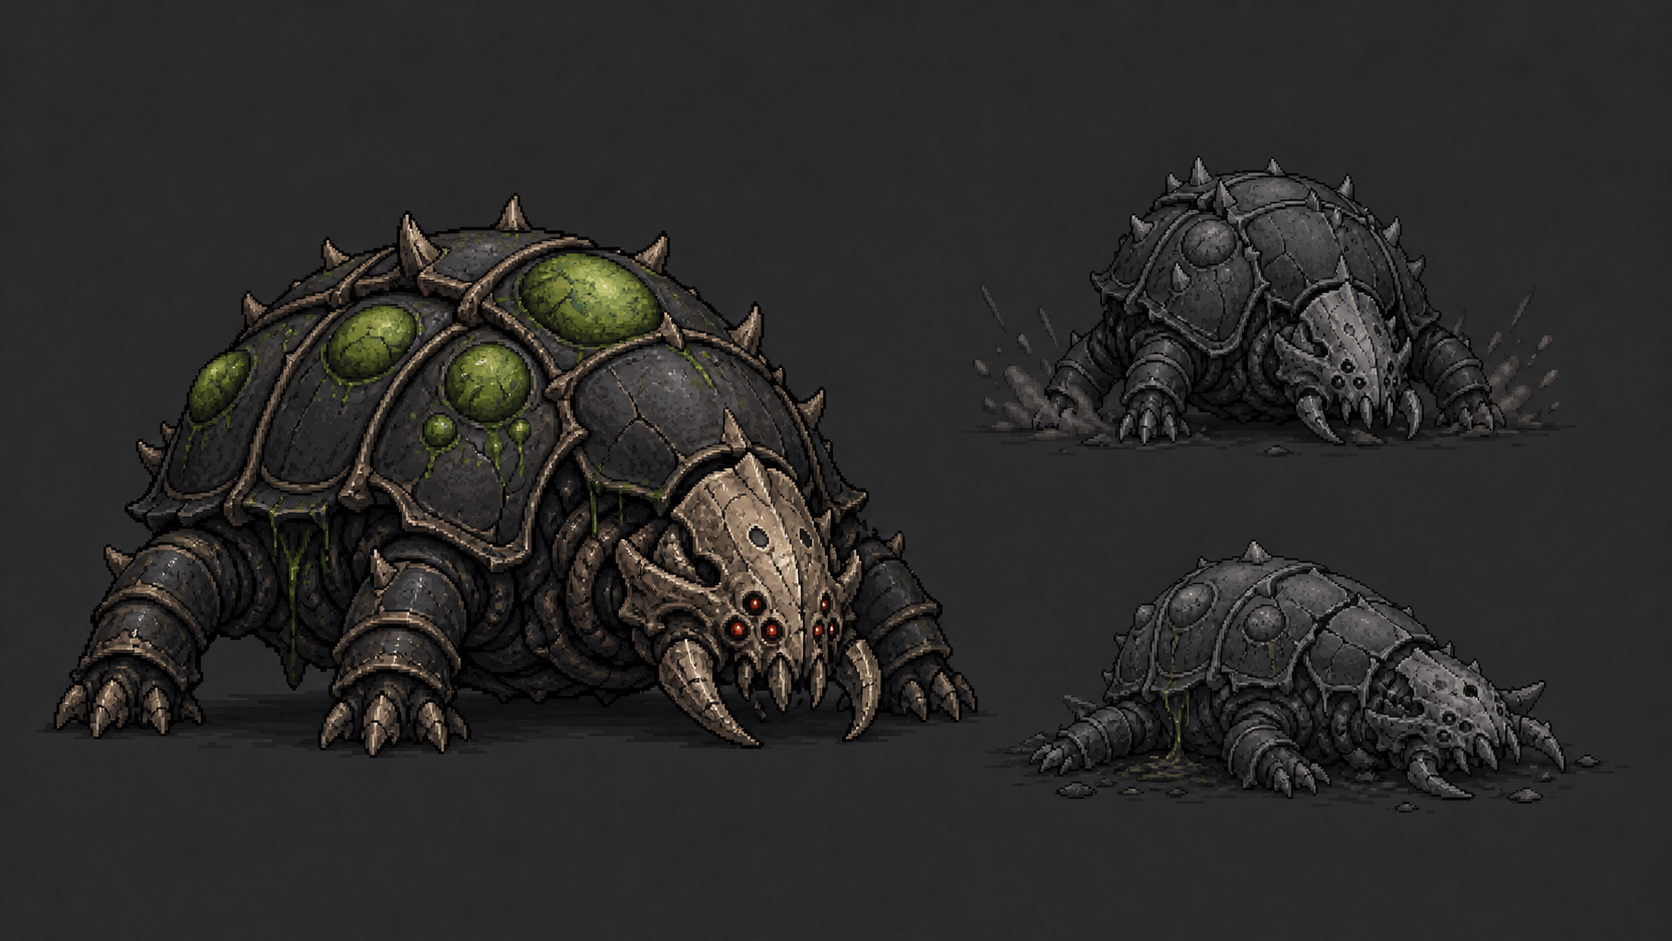
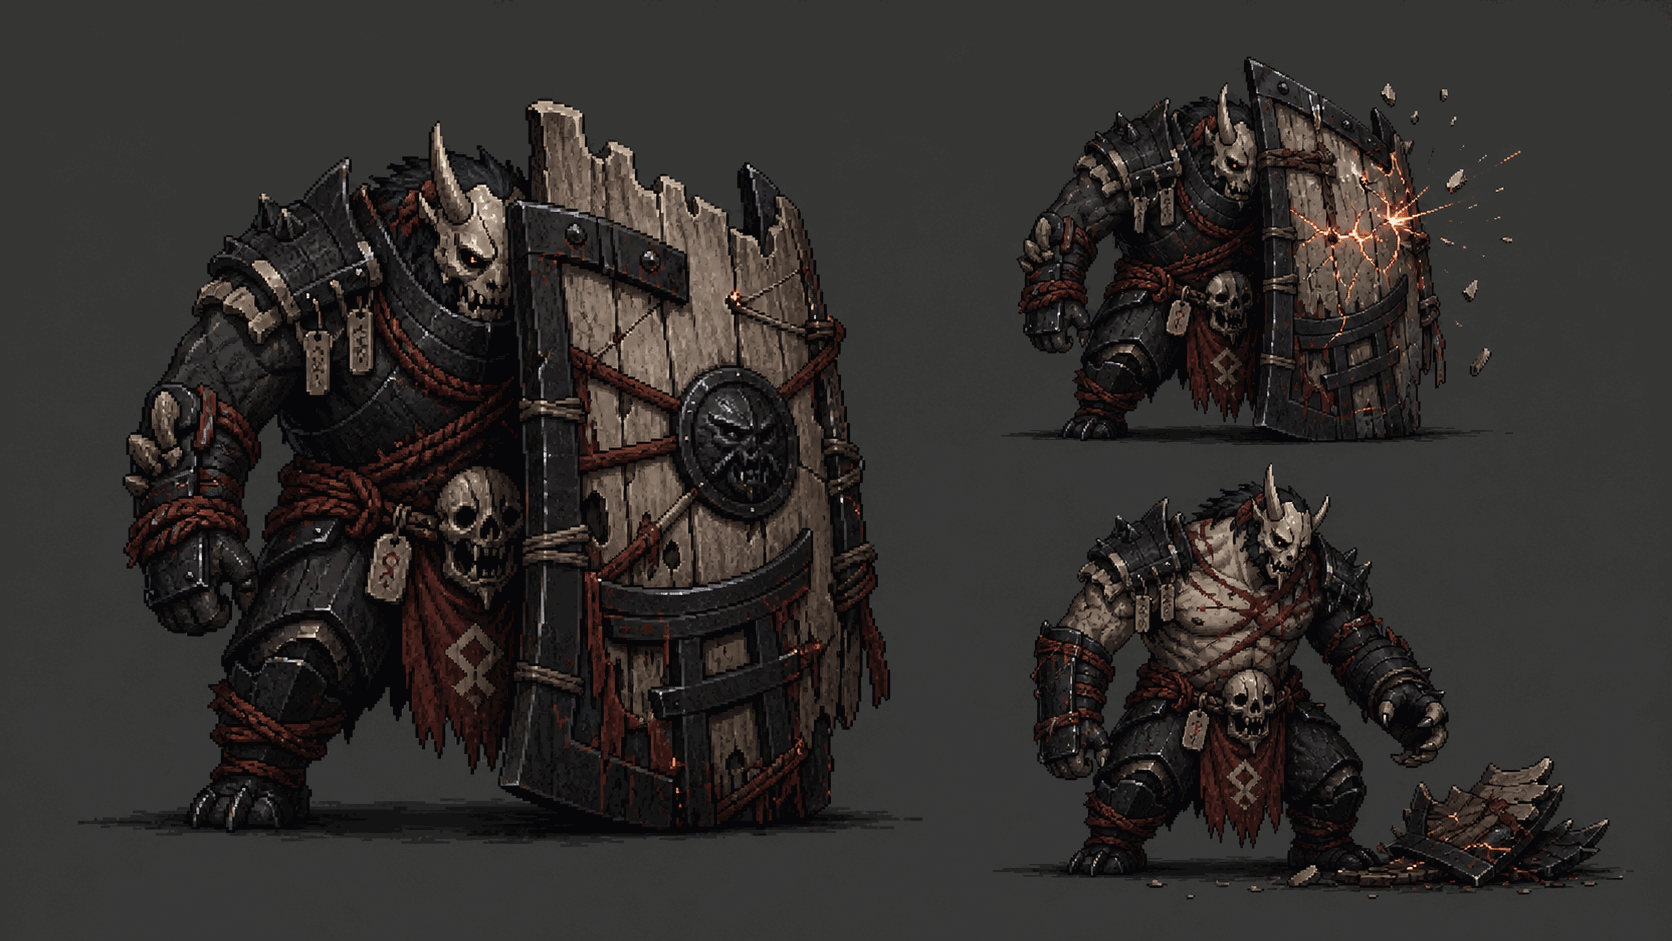
refactor: brute

Changed region(s): [[0.0311, 0.0925, 0.5909, 0.8937], [0.5909, 0.0616, 0.9641, 0.9554]]

diff --git a/docs/art/enemies/brute.md b/docs/art/enemies/brute.md
@@ -1,67 +1,81 @@
-# Brute - 甲壳重鬼
+# Brute - 盾甲重鬼
 
 ## Implementation Status
 
-- 素材状态：已重做并接入，当前 `assets/sprites/enemies/brute/brute_advance.png` 是 `advance`，另有 `brute_brace.png`、`brute_stomp.png`、`brute_recover.png`；攻击读招已烘进动作图集。
-- 玩法状态：已接入专属 `brute` archetype，当前实现为 `advance -> brace -> stomp -> recover` 的慢速重型循环。
+- 设定状态：重构目标已切换为站立厚重近战敌人，核心机制是前置盾牌防御物；盾牌被打掉后防御下降并露出反打窗口。
+- 素材状态：`assets/art/brute-concept.png` 是新原画基准；当前运行时图集仍是旧低伏甲壳版，后续需要重绘为站立持盾动作。
+- 玩法状态：当前代码仍是 `advance -> brace -> stomp -> recover` 的旧慢速重型循环；目标实现见下方 Gameplay Loop。
 - 代码入口：`src/entities/enemies/brute.ts`；资源入口：`src/constants/assets.ts` 的 `BRUTE_SHEET_INDEX` / `BRUTE_SHEETS`。
 
 ## Role
 
-高血重型敌人。目标是制造空间阻塞和目标优先级，而不是靠速度追杀玩家。
+站立厚重近战敌人。目标是用盾牌制造正面压迫和目标优先级，而不是靠潜行、绕背或高速追杀玩家。
 
 ## Gameplay Loop
 
-| 状态 | 当前规则 | 设计目的 |
+| 状态 | 目标规则 | 设计目的 |
 | --- | --- | --- |
-| `advance` | 慢速面向玩家推进 | 制造阻挡压力，但不高速贴脸 |
-| `brace` | 进入距离后停顿 `26-34` 帧，素材内逐帧压低并让头部/前甲开始发绿光 | 给玩家读招和拉开时间 |
-| `stomp` | 短距离前顶 `14-18` 帧，素材内烘入头部高亮和前方气浪，并在冲击窗口只触发一次矩形打击 | 明确高伤威胁，避免多次判定 |
-| `recover` | 停住 `24-34` 帧，使用同尺度低姿态恢复帧，头部/前甲从亮绿色逐帧恢复原色 | 露出反打窗口 |
+| `advance` | 直立小步推进，盾牌始终挡在身体前侧 | 读出“正面硬、移动慢”的压力 |
+| `guard` | 进入距离后举盾停顿 `24-34` 帧，盾面裂纹或暗红符钉逐帧变亮 | 给玩家读招，同时提示盾牌是可破目标 |
+| `shieldBash` | 盾牌未破时短距离盾击或肩撞，只触发一次近战命中盒 | 让完整盾牌状态有正面威胁 |
+| `shieldBreak` | 盾牌耐久归零时进入 `28-40` 帧破盾硬直，碎片飞出并暴露胸腹 | 奖励持续输出，明确防御下降 |
+| `cleave` | 破盾后改用慢速拳击、骨槌或前臂横扫，前摇更明显 | 保留近战威胁，但不再拥有正面防御优势 |
+| `recover` | 攻击后停顿 `24-34` 帧；破盾后恢复帧更低、防线更空 | 露出稳定反打窗口 |
 
-## Current Tuning
+## Target Tuning
 
-| 参数 | 当前值 | 说明 |
+| 参数 | 目标值 | 说明 |
 | --- | ---: | --- |
-| 触发距离 | `150px` | 进入距离后尝试前摇 |
-| 推进速度 | `0.42 + elapsed*0.006 + rand(0.22)` | 慢速重型推进 |
-| 生命 | 基础敌人生命的 `4.25x` | 高血目标，明显区别普通敌人 |
-| 绘制缩放 | `1.12x` | 保持低矮但更有体量 |
+| 触发距离 | `145-165px` | 进入距离后举盾或盾击 |
+| 推进速度 | 低于 `duelist`，接近旧 brute | 保持重型压迫，不追求贴脸速度 |
+| 本体生命 | 基础敌人生命的 `3.0-3.5x` | 本体仍厚，但不把所有耐久堆在生命条里 |
+| 盾牌耐久 | 约本体生命的 `35-45%` | 独立防御物，破坏后不再恢复 |
+| 完整盾牌减伤 | 正面非大招伤害降低 `55-70%` | 迫使玩家先破盾、绕位或用高价值技能 |
+| 破盾后防御 | 移除盾牌减伤，可追加 `1.15x` 受伤倍率 | 让“打掉盾牌”在手感上立即变快 |
 | 同屏上限 | `2` | 避免高血单位堆场 |
-| 同时前摇/重踏 | `1` | 避免多个重踏叠加不可读 |
-| 霸体减伤 | `50%` 非大招伤害 | `brace/stomp` 期间减伤但不免疫，大招全额 |
+| 同时攻击 | `1` | 避免多个盾击叠加不可读 |
 
 ## Target Size
 
-宽 `115-145px`，高 `55-80px`。重型低矮，不要像普通爬行怪。
+宽 `95-125px`，高 `105-145px`。必须是站立厚重轮廓，不能再做成低伏四足或钻地单位。
 
 ## Visual Identity
 
-- 远看是一团低矮厚重的甲壳。
-- 低垂骨质头甲，眼点小而凶，头部埋在前壳下。
-- 宽厚甲壳覆盖背部，背壳有绿色囊泡或发光腐蚀点。
-- 短粗节肢支撑重量，移动时有压地感。
-- 前颚或骨刺可作为接触伤害来源。
+- 远看是一个宽肩、短颈、站立的重甲鬼，盾牌是最大前景形状。
+- 盾牌绑在前臂或嵌进手臂，像骨板、铁门或破损鸟居残片，边缘有缺口和裂纹。
+- 身体厚重但不能像 Boss；头部藏在盾后，面具、角或牙只露出一部分。
+- 腿短而粗，脚步沉，移动时上半身几乎不晃，靠盾牌推进。
+- 破盾后轮廓要明显变窄，露出胸腹、肩带和断裂盾托，让玩家一眼看出防御下降。
 
 ## Color And Materials
 
-- 主色：黑灰甲壳、骨白头甲、暗绿囊泡。
-- 强调色：绿色囊泡低亮度脉动，提示重型危险。
-- 材质：硬甲、骨质、腐蚀液体。
+- 主色：黑铁、深灰骨甲、暗红绑带。
+- 强调色：盾面裂缝和符钉可用低亮度暗红或熄火橙；不要再使用大面积绿色囊泡。
+- 材质：沉重金属、骨板、麻绳/皮带、破碎木铁混合盾。
 
-运行时只负责切换 `brace` / `stomp` / `recover` 图集和结算既有命中盒，不再额外绘制头光、地面预警、地裂、尘土或气浪覆盖层。
+盾牌要作为视觉和玩法共同锚点：完整时遮挡身体，受击时出现裂纹，破盾时飞出碎片，破盾后不再显示完整盾面。
 
 ## Animation Notes
 
 | 状态 | 原画要点 |
 | --- | --- |
-| 移动 | 身体上下起伏很小，脚步慢但有重量 |
-| 霸体前摇 | 背壳收紧，囊泡变亮，身体压低 |
-| 重踏/撞击 | 前端猛压地面或短距离顶撞 |
-| 受击 | 甲壳震动，囊泡闪烁，不要大幅后仰 |
-| 死亡 | 背壳裂开，绿色光熄灭后塌陷 |
+| 移动 | 盾牌在前，脚步短而重；不要贴地爬行 |
+| 举盾前摇 | 盾面抬高并盖住头胸，裂纹或符钉变亮 |
+| 盾击 | 盾牌向前压出半个身位，身体重心跟上 |
+| 盾牌受击 | 盾面局部裂开、碎屑掉落，本体不要大幅后仰 |
+| 破盾 | 盾牌断成几块飞出，brute 短暂暴露胸腹并停顿 |
+| 破盾后攻击 | 用拳、骨槌或残盾臂横扫，前摇比盾击更夸张 |
+| 死亡 | 先跪倒，再让残盾和重甲坠地，暗红裂光熄灭 |
+
+## Sprite Rework Notes
+
+- 如果先做最小代码改造，可复用旧状态名：`advance` = 持盾推进，`brace` = 举盾防御，`stomp` = 盾击或破盾后横扫，`recover` = 攻击硬直。
+- 如果做完整重构，建议新增盾牌状态字段和独立盾牌耐久，动画至少包含 `advance`、`guard`、`shield_bash`、`shield_break`、`cleave`、`recover`。
+- 新图集单帧高度应接近 `duelist` / `binder` 这类站立敌人，而不是旧 brute 的 `314x145` 低伏画布。
 
 ## Avoid
 
-- 不要让它移动姿态太灵活，否则会和 `crawler` 混淆。
-- 不要让绿色特效太亮，避免抢过奖励和玩家技能可读性。
+- 不要低伏、钻地、露土包或用铲爪，否则会和 `burrower` 混淆。
+- 不要四足甲虫化；旧版低矮甲壳只作为废弃方向参考。
+- 不要给它高速冲刺，否则会和 `runner` 混淆。
+- 不要让暗红盾光太亮，避免抢过玩家技能和奖励可读性。

diff --git a/docs/numeric-system/enemy-archetypes.md b/docs/numeric-system/enemy-archetypes.md
@@ -52,7 +52,7 @@ k = bossKills = act - 1
 | `runner` | `runner_approach.png` | 快攻压力 | 短前摇后冲刺，迫使跳跃或远程处理 | `1` | 前中期核心，后期轮换 |
 | `duelist` | `duelist.png` | 近战精英 | 接近后短距离斩击 | `2` | 中期近战压力 |
 | `leaper` | `leaper_stalk.png` | 跳跃突袭 | 蓄力后抛物线跳向玩家落点 | `2` | 平台和落点压力 |
-| `brute` | `brute_advance.png` | 高血目标 | 慢速高血，短霸体窗压迫空间 | `3` | 中期阻挡压力 |
+| `brute` | `brute_advance.png` | 持盾重型 | 慢速站立推进，盾牌被击破后防御下降 | `3` | 中期正面阻挡压力 |
 | `caster` | `caster_move.png` | 远程施压 | 保持距离，周期性发射投射物或召唤标记 | `3` | 中后期远程压力 |
 | `glider` | `glider_hover.png` | 低空飞行 | 低空悬停，前摇后俯冲掠过 | `4` | 空中和平台边缘压力 |
 | `burrower` | `burrower_move.png` | 潜行包抄 | 短暂潜入，地面标记后从玩家附近钻出 | `5` | 后期反风筝压力 |
@@ -69,7 +69,7 @@ k = bossKills = act - 1
 | `runner_approach.png` | 角鬼奔跑/挥臂 | 已接入前摇冲刺状态机 | 作为 `runner`，按幕数控制快攻压力和同时冲刺数量 |
 | `caster_move.png` | 提灯面具鬼 | 已接入远程鬼火状态机 | 作为 `caster`，按幕数控制生成权重和投射物密度 |
 | `duelist.png` | 双刃鬼 | 已接入近战斩击状态机 | 作为 `duelist`，按幕数控制近身压力和同时威胁数量 |
-| `brute_advance.png` | 甲壳虫鬼 | 已接入重型 brace/stomp 状态机 | 作为 `brute`，高血慢速，限制同时存在数量 |
+| `brute_advance.png` | 旧低伏甲壳鬼 | 已接入旧重型 brace/stomp 状态机；新设定改为站立持盾敌人 | 后续重做为 `brute`，用独立盾牌耐久和破盾防御下降制造正面阻挡 |
 | `glider_hover.png` | 膜翼巡鬼 | 已接入低空悬停/俯冲状态机，当前按 `elapsed >= 70s` 进入随机候选 | 作为 `glider`，目标设计中改为第 4 幕解锁并纳入预算 |
 | `binder_move.png` | 符咒长袍鬼 | 已接入控场咒圈状态机 | 作为 `binder`，目标设计中改为后期幕数或轮换 profile 解锁 |
 | `burrower_move.png` | 铲爪土潜鬼 | 已接入潜入、地面轨迹、钻出和恢复状态机，当前按 `elapsed >= 90s` 进入随机候选 | 作为 `burrower`，目标设计中改为第 5 幕解锁并纳入预算 |
@@ -360,19 +360,19 @@ chaserDashSpeed = 2.20 + actIndex * 0.12 + random(0, 0.25)
 
 ### `brute`
 
-高血重型单位，用于制造空间阻塞，而不是靠速度追杀。
+站立持盾重型单位，用于制造正面空间阻塞和破盾目标优先级，而不是靠速度追杀。
 
 | 项 | 目标 |
 | --- | --- |
 | 出现幕数 | 第 3 幕开始；第 6 幕后可与 `splitter` 轮换 |
-| 主要压力 | 持续占位和目标优先级 |
-| 状态机 | `advance -> brace -> stomp -> recover -> advance` |
-| 攻击窗口 | 偶尔重踏或短霸体推进，伤害高但前摇长 |
-| 恢复窗口 | 重踏后 `24-34` 帧停顿，霸体结束 |
-| 玩家反制 | 贰之型、下落攻击、大招 |
-| 不可做边界 | 霸体不能免疫大招；不能高速追击玩家 |
+| 主要压力 | 正面盾牌减伤、持续占位和破盾目标优先级 |
+| 状态机 | 目标为 `advance -> guard -> shieldBash -> recover`；盾牌耐久归零后进入 `shieldBreak`，再改用 `cleave` |
+| 攻击窗口 | 盾牌完整时短前摇盾击；破盾后用更慢的拳击、骨槌或残盾横扫 |
+| 恢复窗口 | 攻击后 `24-34` 帧停顿；破盾瞬间额外 `28-40` 帧硬直 |
+| 玩家反制 | 集火破盾、贰之型群体压制、下落攻击、大招 |
+| 不可做边界 | 盾牌不能免疫大招；不能潜行、钻地、绕背或高速追击玩家 |
 | 同屏限制 | 第 3 幕初次出现最多 `1`，后续最多 `2` |
-| 可读性约束 | 靠体量和甲壳读出高血重型定位 |
+| 可读性约束 | 靠站立体量、前置盾牌、盾裂/破盾状态读出高防重型定位 |
 
 ### `caster`
 

diff --git a/docs/numeric-system/enemies.md b/docs/numeric-system/enemies.md
@@ -16,7 +16,7 @@
 - `crawler`：低伏接近、前摇、前扑、恢复。
 - `runner`：接近、前摇、冲刺、恢复。
 - `duelist`：接近、前摇、短距离斩击、恢复。
-- `brute`：慢速推进、brace、stomp、恢复，brace/stomp 期间降低非大招伤害。
+- `brute`：当前运行时为慢速推进、brace、stomp、恢复，brace/stomp 期间降低非大招伤害；目标重构为站立持盾重型，盾牌被击破后移除正面减伤并进入破防窗口。
 - `caster`：保持施法距离，前摇后发射追踪鬼火。
 - `leaper`：低速跟踪，锁定玩家位置前摇后抛物线跳跃落地；当前按 `elapsed >= 35s` 才进入随机候选。
 - `glider`：低空悬停，前摇后俯冲掠过；当前按 `elapsed >= 70s` 才进入随机候选。
@@ -92,7 +92,7 @@ h = drawH * 0.78
 | `crawler` | `0.65` | 同时前扑最多 `2` | 触发距离内前摇后低伏前扑 |
 | `runner` | `0.75` | 同时冲刺最多 `2` | 进入距离后前摇并高速冲刺 |
 | `duelist` | `1.35` | 同场最多 `3`，同时攻击威胁最多 `1` | 近身前摇后短距离斩击 |
-| `brute` | `4.25` | 同场最多 `2`，同时攻击最多 `1` | 慢速高血，brace/stomp 期间非大招伤害减半 |
+| `brute` | `4.25` | 同场最多 `2`，同时攻击最多 `1` | 当前为旧 brace/stomp 减伤；目标重构为持盾推进，破盾后防御下降 |
 | `caster` | `1` | 每个 caster 鬼火最多 `2` | 保持距离，前摇后发射追踪鬼火 |
 | `leaper` | `1.05` | `elapsed >= 35s` 后随机生成，同场最多 `2`，同时锁定落点最多 `1` | 低速跟踪，前摇锁定玩家位置后抛物线跳跃，落地一次性冲击后硬直 |
 | `glider` | `0.92` | `elapsed >= 70s` 后随机生成，同场最多 `2`，同时俯冲压力最多 `1` | 低空悬停，收翼前摇后俯冲并掠过恢复 |

diff --git a/docs/SPRITES.md b/docs/SPRITES.md
@@ -160,12 +160,12 @@ Brute 专属动作素材：
 
 | 路径 | 总尺寸 | 帧数 | 单帧 | 运行时状态 | 备注 |
 | --- | ---: | ---: | ---: | --- | --- |
-| `enemies/brute/brute_advance.png` | `1884x145` | 6 | `314x145` | `advance` | 慢速推进，低矮重型起伏 |
-| `enemies/brute/brute_brace.png` | `1256x145` | 4 | `314x145` | `brace` | 停顿压低，头部/前甲与囊泡逐帧发亮 |
-| `enemies/brute/brute_stomp.png` | `1570x145` | 5 | `314x145` | `stomp` | 短距离前顶，头部/前甲高亮并内置前方气浪 |
-| `enemies/brute/brute_recover.png` | `942x145` | 3 | `314x145` | `recover` | 同推进尺度的低姿态硬直，头部/前甲从亮绿色恢复原色 |
+| `enemies/brute/brute_advance.png` | `1884x145` | 6 | `314x145` | `advance` | 旧低伏甲壳推进，待替换为站立持盾推进 |
+| `enemies/brute/brute_brace.png` | `1256x145` | 4 | `314x145` | `brace` | 旧压低前摇，待替换为举盾防御/盾裂读招 |
+| `enemies/brute/brute_stomp.png` | `1570x145` | 5 | `314x145` | `stomp` | 旧短距离前顶，待替换为盾击或破盾后横扫 |
+| `enemies/brute/brute_recover.png` | `942x145` | 3 | `314x145` | `recover` | 旧低姿态硬直，待替换为盾击后硬直/破盾硬直 |
 
-以上 brute 专属动作素材均有对应 `*_source.png` 绿幕制作源图；`brace` / `stomp` / `recover` 的读招高亮、前方气浪和恢复衰减已烘进图集，运行时不再额外绘制头光、地裂或气浪覆盖层。
+以上 brute 专属动作素材仍是旧运行时图集。新设定以 `docs/art/enemies/brute.md` 和 `assets/art/brute-concept.png` 为基准，后续图集应改为站立厚重近战敌人，并在盾牌完整、盾牌受击、盾牌破碎和破盾后攻击之间保持清晰轮廓差异。
 
 Binder 专属动作素材：
 

diff --git a/docs/art/enemies/README.md b/docs/art/enemies/README.md
@@ -36,7 +36,7 @@
 | `runner` | 角突鬼 | 素材已接入；前摇冲刺行为已实现 | [runner.md](runner.md) |
 | `caster` | 提灯咒鬼 | 多状态素材已接入；远程鬼火行为已实现 | [caster.md](caster.md) |
 | `duelist` | 双刃裂鬼 | 多状态素材已接入；近战斩击行为已实现 | [duelist.md](duelist.md) |
-| `brute` | 甲壳重鬼 | 素材已接入；重型 brace/stomp 行为已实现 | [brute.md](brute.md) |
+| `brute` | 盾甲重鬼 | 原画设定已重构为站立持盾重型；运行时仍待重做 | [brute.md](brute.md) |
 | `leaper` | 裂足跳鬼 | 多状态素材已接入；锁定落点跳跃行为已实现 | [leaper.md](leaper.md) |
 | `glider` | 膜翼巡鬼 | 多状态素材已接入；低空俯冲行为已实现 | [glider.md](glider.md) |
 | `burrower` | 土潜鬼 | 多状态素材已接入；潜入/钻出行为已实现 | [burrower.md](burrower.md) |
@@ -51,7 +51,7 @@
 - `runner` 冲刺前摇不看速度也能从姿态读出。
 - `caster` 的提灯必须始终是最亮识别点。
 - `duelist` 的双刃范围明确，但不能像 Boss 级大招。
-- `brute` 必须靠体量和甲壳读出高血重型定位。
+- `brute` 必须靠站立体量、前置盾牌和破盾状态读出高防重型定位。
 - `leaper` 不看颜色也能通过长腿和压低姿态认出。
 - `glider` 必须靠低空翼膜和收翼俯冲读出飞行威胁。
 - `burrower` 潜行时仍有地面轨迹，不会凭空消失。

diff --git a/docs/game-design/content-roadmap.md b/docs/game-design/content-roadmap.md
@@ -21,7 +21,7 @@
 | `crawler` | 已接入低伏前扑状态机 | 低位穿插，迫使玩家注意脚边 | 调整按幕权重，确保普攻可稳定命中 | P2 |
 | `runner` | 已接入前摇冲刺状态机 | 速度压力，迫使跳跃或技能处理 | 第 2 幕后提高权重，控制同时冲刺数量 | P2 |
 | `duelist` | 已接入近战前摇斩击状态机 | 近身窗口和反打节奏 | 第 2 幕核心敌人，完善权重和召唤池 | P2 |
-| `brute` | 已接入重型 brace/stomp 状态机 | 高血阻挡和空间压迫 | 第 3 幕核心敌人，控制同屏数量 | P2 |
+| `brute` | 旧 brace/stomp 状态机已接入；新设定改为站立持盾重型 | 正面阻挡、破盾目标优先级和空间压迫 | 重绘持盾图集，新增盾牌耐久和破盾后防御下降 | P2 |
 | `caster` | 已接入远程鬼火状态机 | 远程牵制和站位压力 | 第 3 幕核心敌人，限制投射物密度 | P2 |
 | `binder` | 已接入控场咒圈状态机，当前按 90s 时间解锁 | 后期控场与反风筝 | 改为第 6 幕+ 或轮换 profile 解锁 | P3 |
 | `leaper` | 已接入跳跃状态机，当前按 35s 时间解锁 | 跳跃落点压力 | 改为第 2 幕解锁并纳入生成权重/预算 | P3 |
